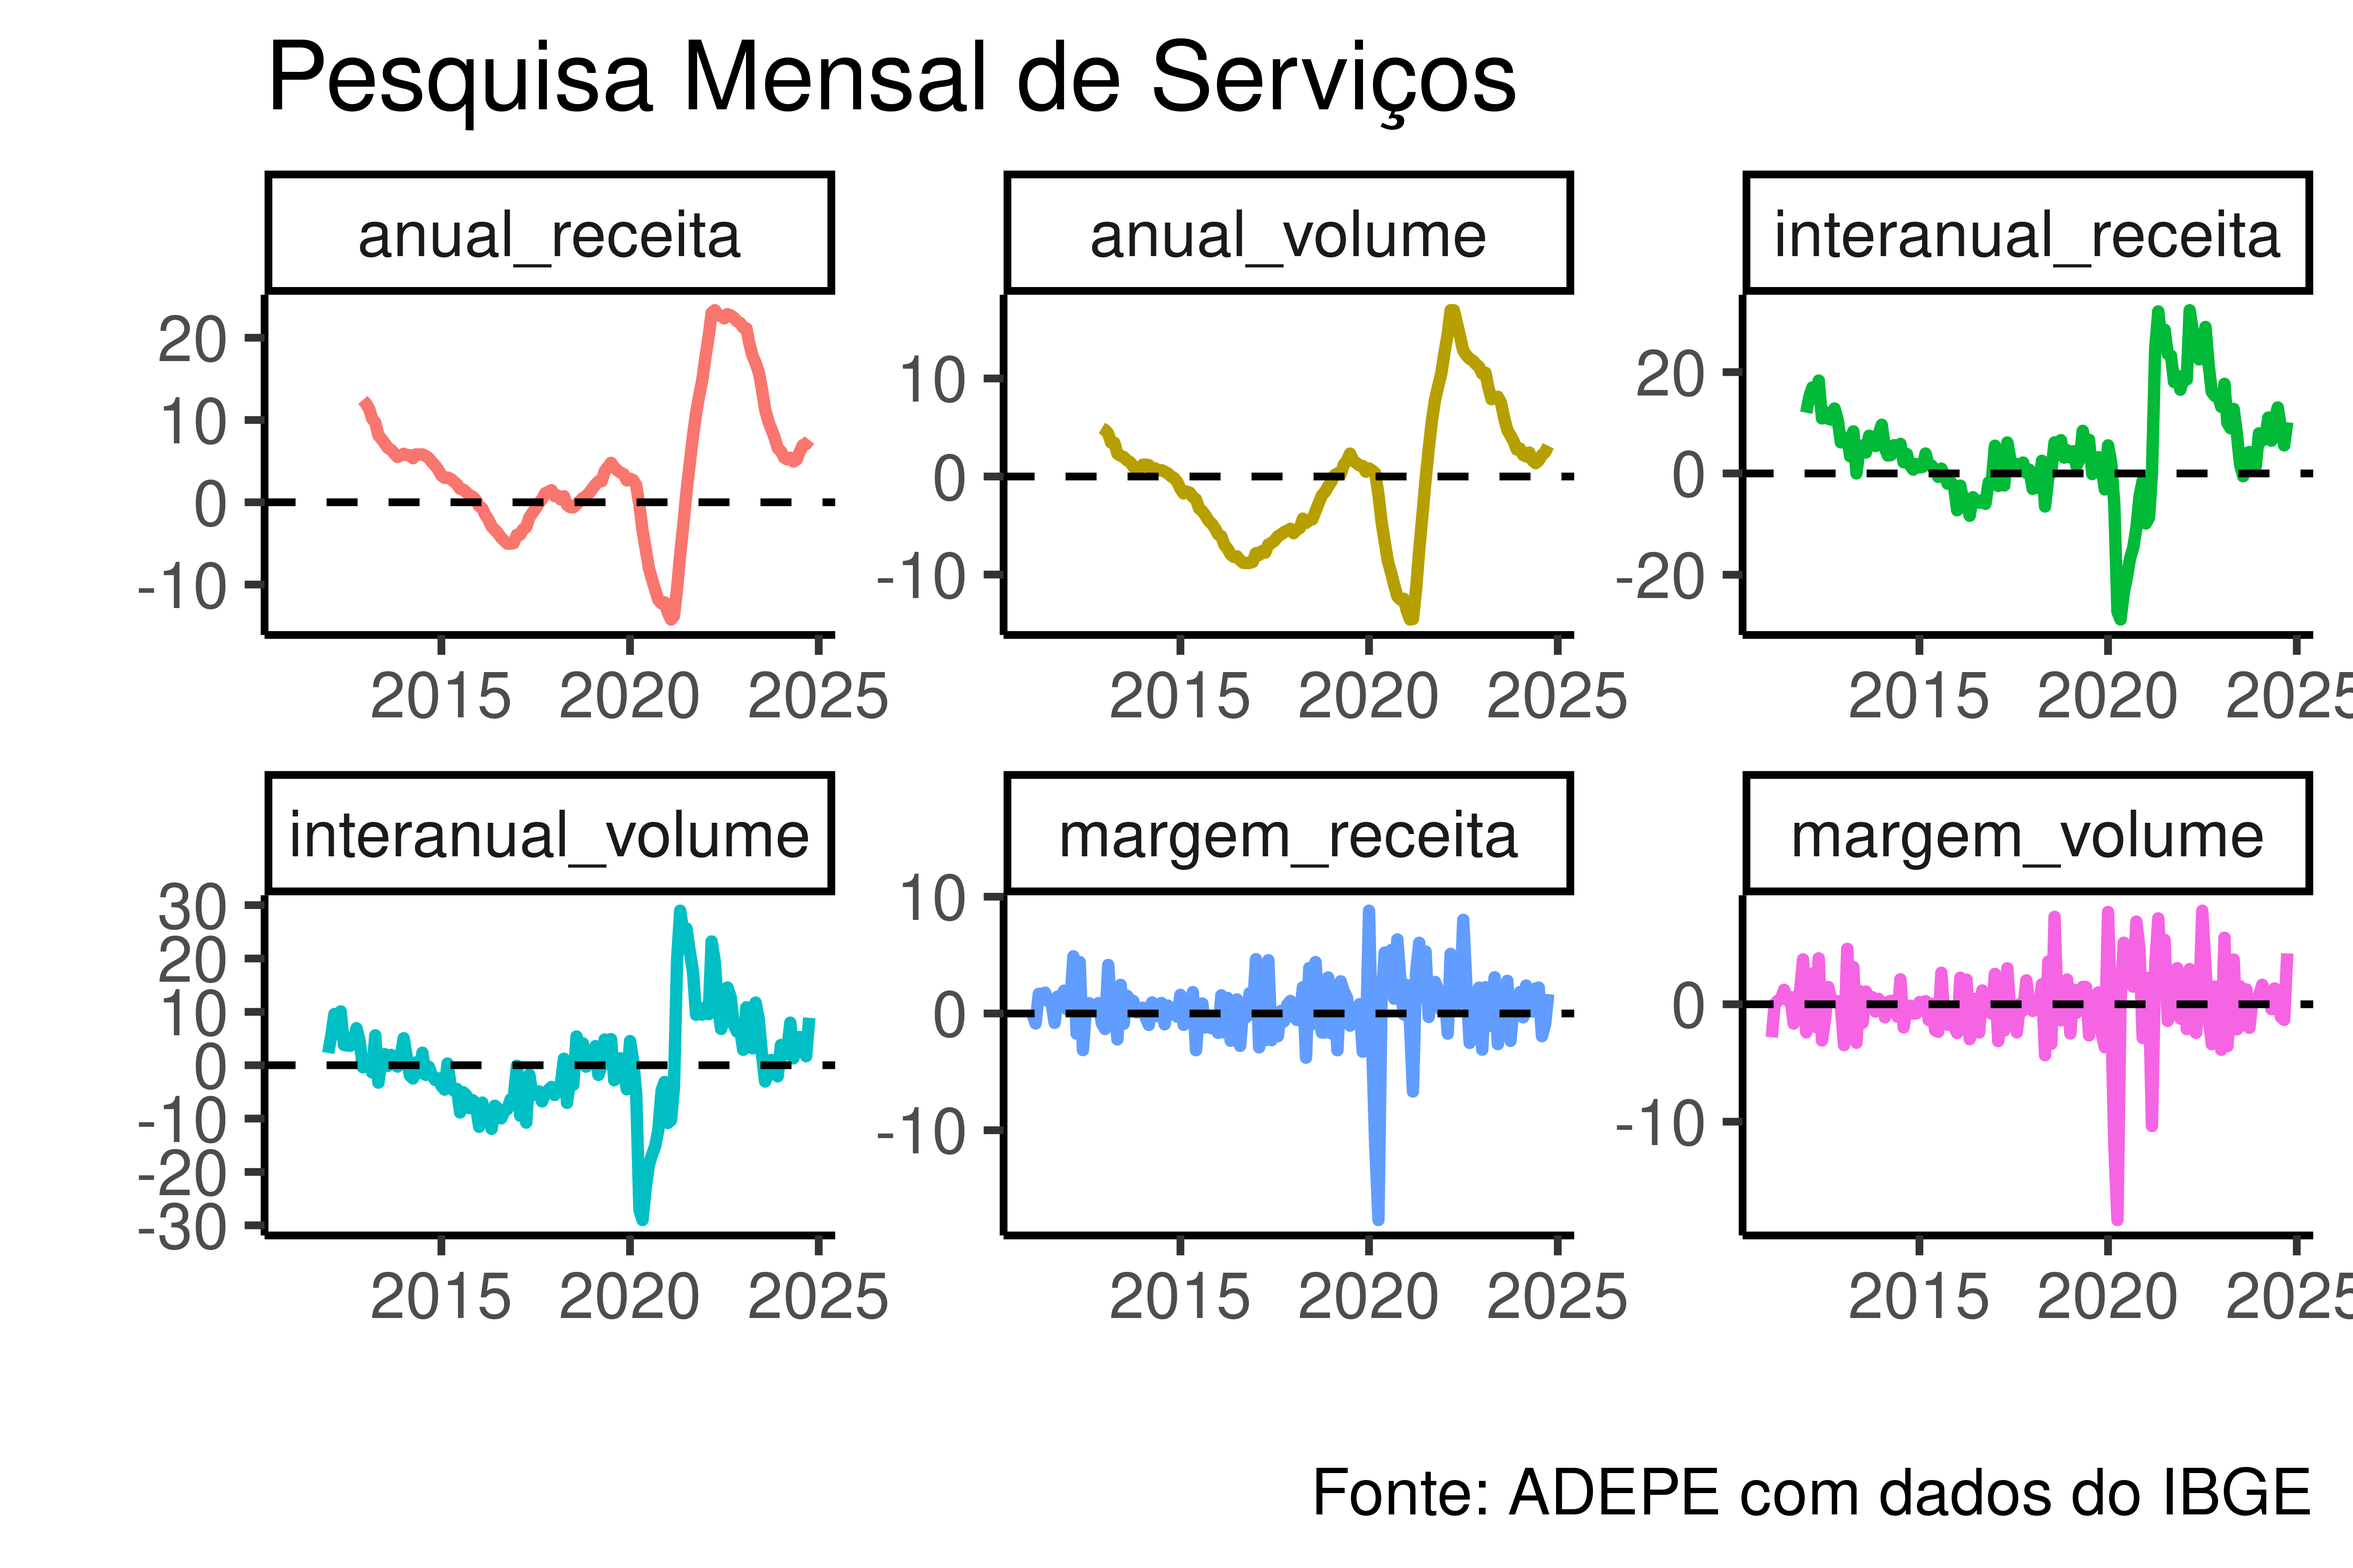
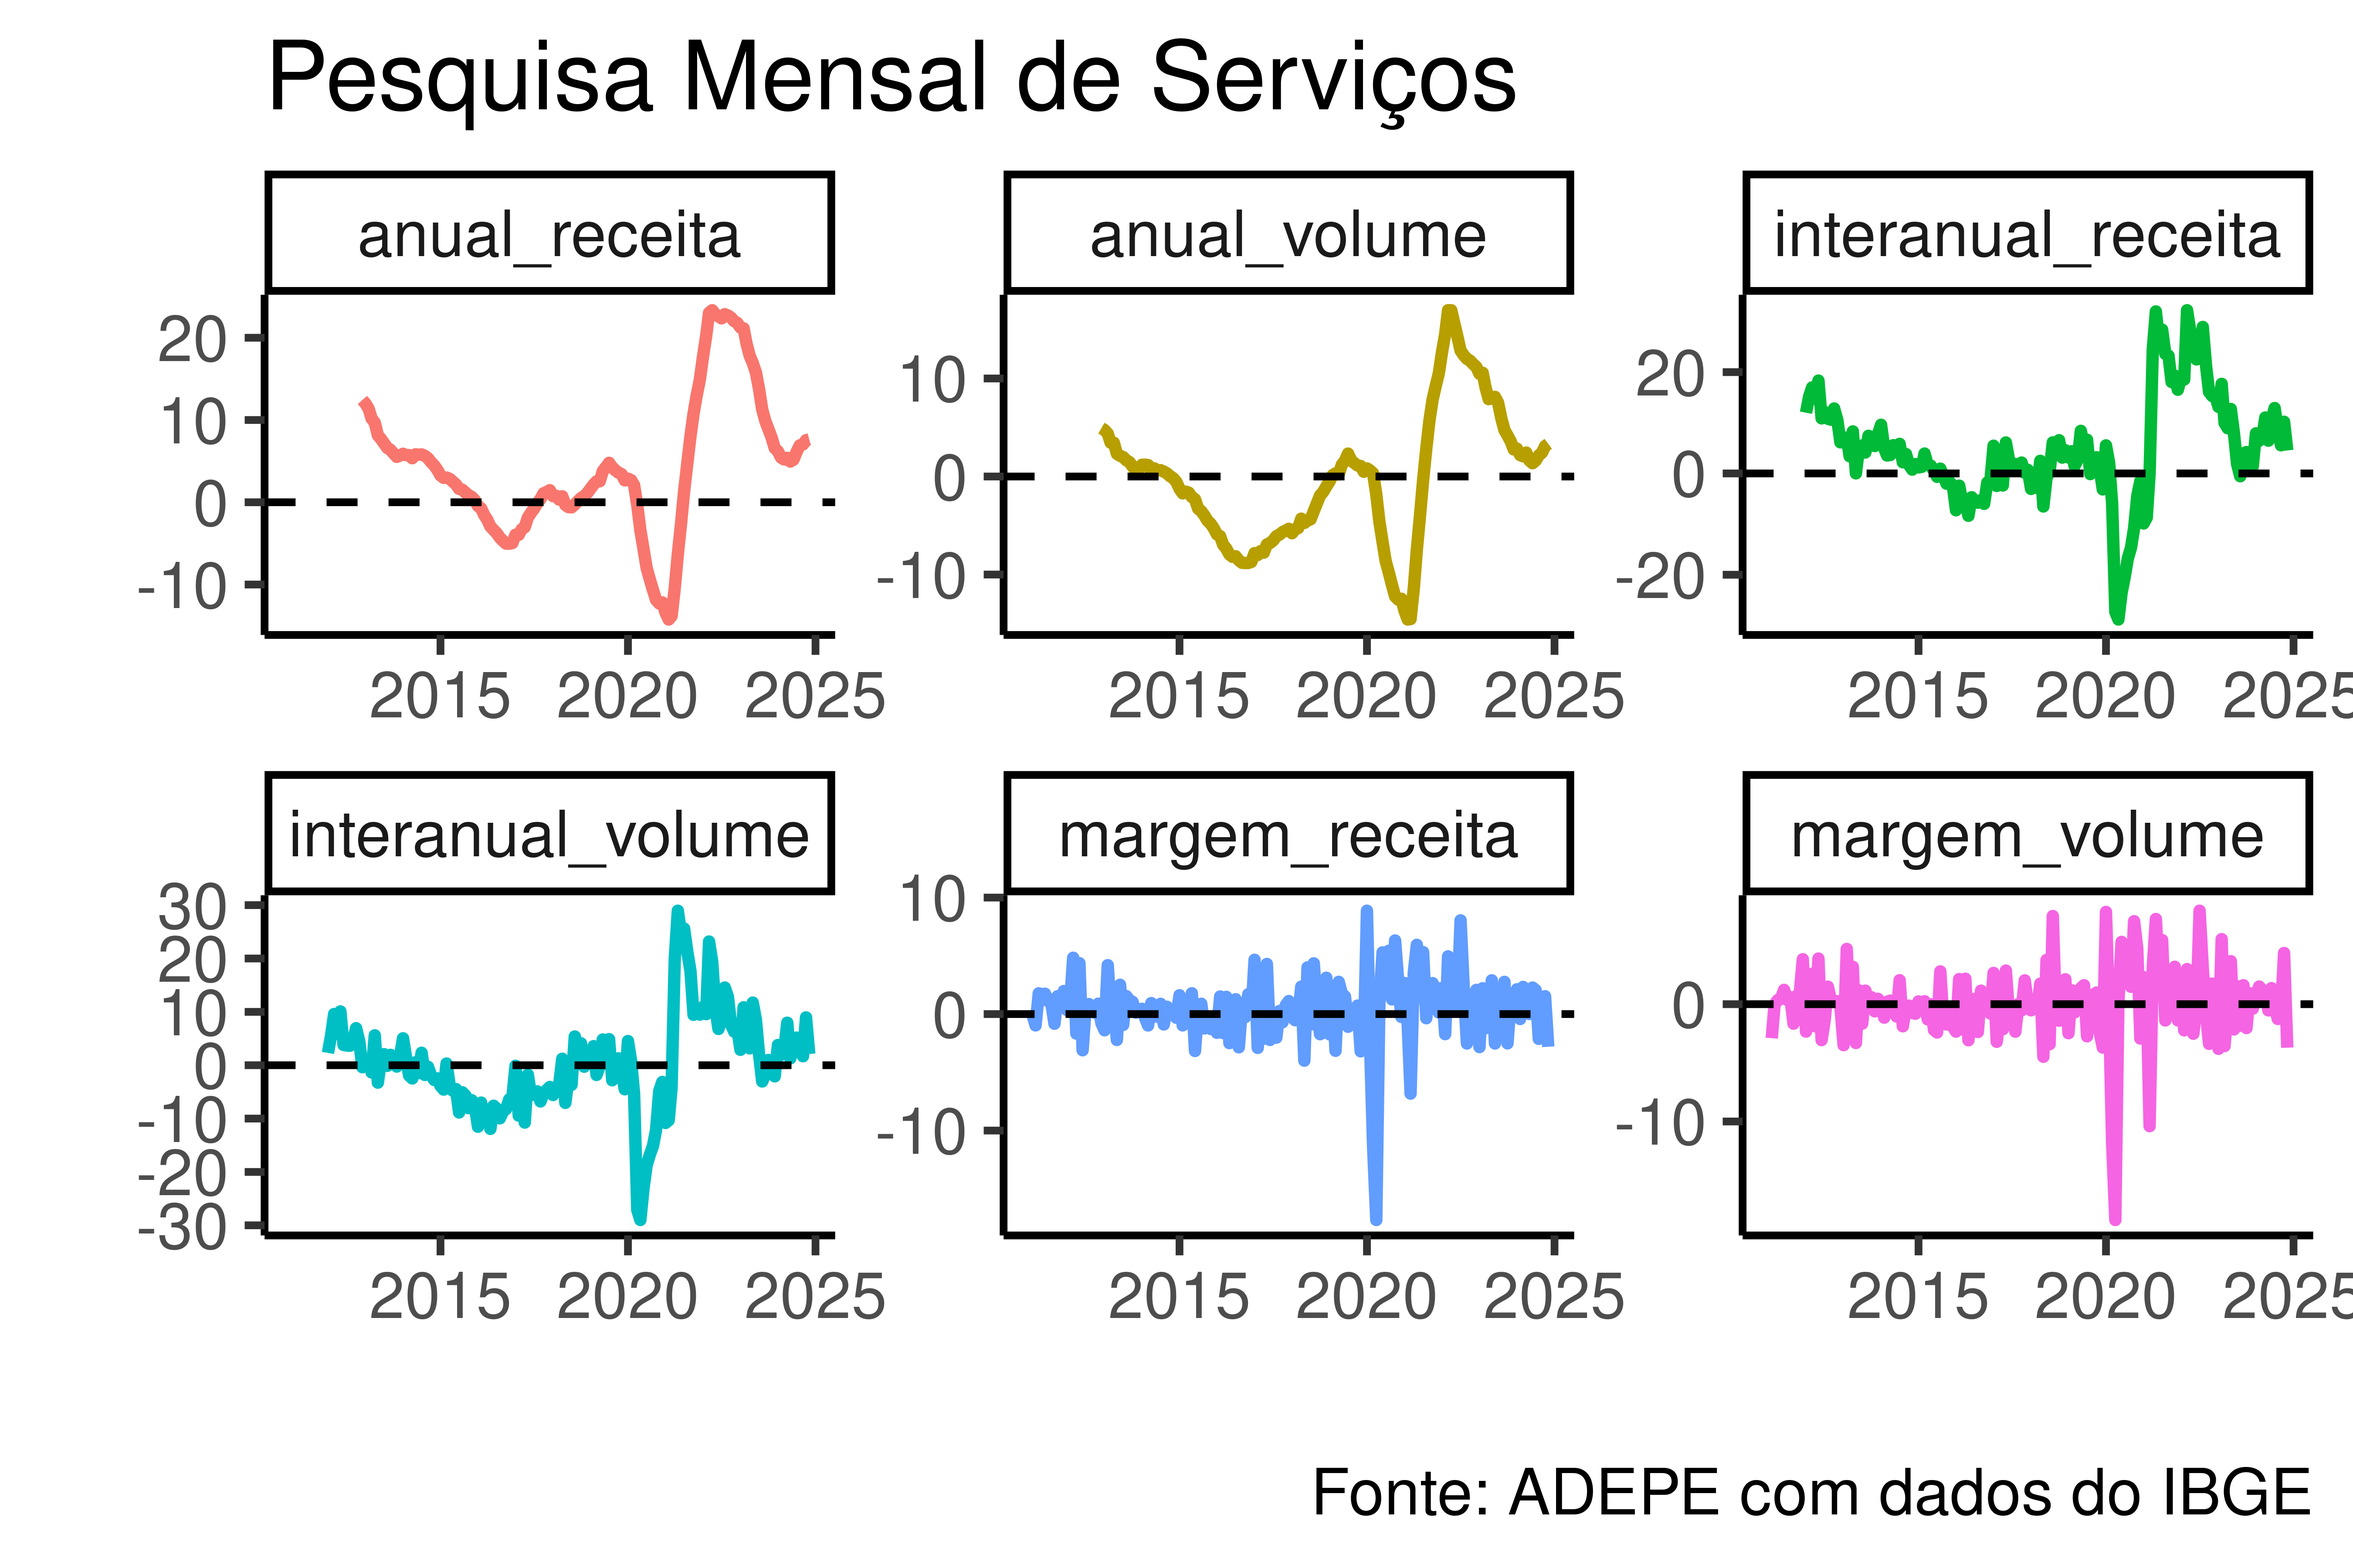
Atualização de relatório automatizada

diff --git a/relatório_nivel_atividade/pesquisas.html b/relatório_nivel_atividade/pesquisas.html
@@ -111,46 +111,46 @@ ul.task-list li input[type="checkbox"] {
 </thead>
 <tbody>
 <tr class="odd">
-<td style="text-align: center;">May 2024</td>
-<td style="text-align: center;">3.50</td>
-<td style="text-align: center;">2.69</td>
-<td style="text-align: center;">6.49</td>
-<td style="text-align: center;">2.83</td>
-</tr>
-<tr class="even">
 <td style="text-align: center;">Jun 2024</td>
 <td style="text-align: center;">-3.00</td>
 <td style="text-align: center;">9.87</td>
 <td style="text-align: center;">0.15</td>
 <td style="text-align: center;">-0.79</td>
 </tr>
-<tr class="odd">
+<tr class="even">
 <td style="text-align: center;">Jul 2024</td>
 <td style="text-align: center;">3.23</td>
 <td style="text-align: center;">10.33</td>
 <td style="text-align: center;">2.11</td>
 <td style="text-align: center;">4.13</td>
 </tr>
-<tr class="even">
+<tr class="odd">
 <td style="text-align: center;">Aug 2024</td>
 <td style="text-align: center;">3.57</td>
 <td style="text-align: center;">17.37</td>
 <td style="text-align: center;">5.53</td>
 <td style="text-align: center;">4.43</td>
 </tr>
-<tr class="odd">
+<tr class="even">
 <td style="text-align: center;">Sep 2024</td>
-<td style="text-align: center;">13.17</td>
+<td style="text-align: center;">13.32</td>
 <td style="text-align: center;">6.37</td>
-<td style="text-align: center;">7.63</td>
+<td style="text-align: center;">7.65</td>
 <td style="text-align: center;">7.81</td>
 </tr>
-<tr class="even">
+<tr class="odd">
 <td style="text-align: center;">Oct 2024</td>
-<td style="text-align: center;">-0.71</td>
-<td style="text-align: center;">8.52</td>
-<td style="text-align: center;">1.68</td>
-<td style="text-align: center;">3.96</td>
+<td style="text-align: center;">-0.66</td>
+<td style="text-align: center;">8.51</td>
+<td style="text-align: center;">1.71</td>
+<td style="text-align: center;">3.92</td>
+</tr>
+<tr class="even">
+<td style="text-align: center;">Nov 2024</td>
+<td style="text-align: center;">15.06</td>
+<td style="text-align: center;">5.23</td>
+<td style="text-align: center;">-1.25</td>
+<td style="text-align: center;">4.68</td>
 </tr>
 </tbody>
 </table>
@@ -171,46 +171,46 @@ ul.task-list li input[type="checkbox"] {
 </thead>
 <tbody>
 <tr class="odd">
-<td style="text-align: center;">May 2024</td>
-<td style="text-align: center;">-3.71</td>
-<td style="text-align: center;">-4.27</td>
-<td style="text-align: center;">9.48</td>
-<td style="text-align: center;">4.11</td>
-</tr>
-<tr class="even">
 <td style="text-align: center;">Jun 2024</td>
-<td style="text-align: center;">-4.81</td>
-<td style="text-align: center;">1.05</td>
+<td style="text-align: center;">-4.83</td>
+<td style="text-align: center;">0.97</td>
 <td style="text-align: center;">-5.74</td>
-<td style="text-align: center;">-4.99</td>
+<td style="text-align: center;">-4.71</td>
 </tr>
-<tr class="odd">
+<tr class="even">
 <td style="text-align: center;">Jul 2024</td>
-<td style="text-align: center;">4.34</td>
-<td style="text-align: center;">2.22</td>
-<td style="text-align: center;">-2.39</td>
-<td style="text-align: center;">3.09</td>
-</tr>
-<tr class="even">
-<td style="text-align: center;">Aug 2024</td>
-<td style="text-align: center;">-2.08</td>
-<td style="text-align: center;">2.52</td>
-<td style="text-align: center;">0.71</td>
-<td style="text-align: center;">-0.74</td>
+<td style="text-align: center;">4.42</td>
+<td style="text-align: center;">2.02</td>
+<td style="text-align: center;">-2.42</td>
+<td style="text-align: center;">3.03</td>
 </tr>
 <tr class="odd">
-<td style="text-align: center;">Sep 2024</td>
-<td style="text-align: center;">-2.21</td>
-<td style="text-align: center;">-5.25</td>
-<td style="text-align: center;">-1.81</td>
-<td style="text-align: center;">-0.24</td>
+<td style="text-align: center;">Aug 2024</td>
+<td style="text-align: center;">-2.01</td>
+<td style="text-align: center;">2.32</td>
+<td style="text-align: center;">0.65</td>
+<td style="text-align: center;">-0.77</td>
 </tr>
 <tr class="even">
+<td style="text-align: center;">Sep 2024</td>
+<td style="text-align: center;">-2.01</td>
+<td style="text-align: center;">-4.89</td>
+<td style="text-align: center;">-1.98</td>
+<td style="text-align: center;">-0.40</td>
+</tr>
+<tr class="odd">
 <td style="text-align: center;">Oct 2024</td>
-<td style="text-align: center;">-0.82</td>
-<td style="text-align: center;">3.51</td>
-<td style="text-align: center;">2.26</td>
-<td style="text-align: center;">0.10</td>
+<td style="text-align: center;">-0.87</td>
+<td style="text-align: center;">3.13</td>
+<td style="text-align: center;">2.32</td>
+<td style="text-align: center;">0.16</td>
+</tr>
+<tr class="even">
+<td style="text-align: center;">Nov 2024</td>
+<td style="text-align: center;">2.64</td>
+<td style="text-align: center;">-1.10</td>
+<td style="text-align: center;">-0.61</td>
+<td style="text-align: center;">-0.05</td>
 </tr>
 </tbody>
 </table>
@@ -274,39 +274,39 @@ Nota
 </thead>
 <tbody>
 <tr class="odd">
-<td style="text-align: left;">2024-05-01</td>
-<td style="text-align: right;">-1.06</td>
-<td style="text-align: right;">5.06</td>
-<td style="text-align: right;">5.87</td>
-</tr>
-<tr class="even">
 <td style="text-align: left;">2024-06-01</td>
-<td style="text-align: right;">2.52</td>
-<td style="text-align: right;">6.84</td>
-<td style="text-align: right;">5.97</td>
+<td style="text-align: right;">2.54</td>
+<td style="text-align: right;">6.88</td>
+<td style="text-align: right;">6.00</td>
 </tr>
-<tr class="odd">
+<tr class="even">
 <td style="text-align: left;">2024-07-01</td>
-<td style="text-align: right;">1.19</td>
-<td style="text-align: right;">10.48</td>
-<td style="text-align: right;">6.44</td>
-</tr>
-<tr class="even">
-<td style="text-align: left;">2024-08-01</td>
-<td style="text-align: right;">0.08</td>
-<td style="text-align: right;">7.60</td>
-<td style="text-align: right;">6.72</td>
+<td style="text-align: right;">1.18</td>
+<td style="text-align: right;">10.52</td>
+<td style="text-align: right;">6.47</td>
 </tr>
 <tr class="odd">
-<td style="text-align: left;">2024-09-01</td>
-<td style="text-align: right;">0.96</td>
-<td style="text-align: right;">8.22</td>
-<td style="text-align: right;">7.03</td>
+<td style="text-align: left;">2024-08-01</td>
+<td style="text-align: right;">0.09</td>
+<td style="text-align: right;">7.66</td>
+<td style="text-align: right;">6.76</td>
 </tr>
 <tr class="even">
+<td style="text-align: left;">2024-09-01</td>
+<td style="text-align: right;">0.94</td>
+<td style="text-align: right;">8.28</td>
+<td style="text-align: right;">7.07</td>
+</tr>
+<tr class="odd">
 <td style="text-align: left;">2024-10-01</td>
-<td style="text-align: right;">0.76</td>
-<td style="text-align: right;">9.57</td>
+<td style="text-align: right;">0.74</td>
+<td style="text-align: right;">9.68</td>
+<td style="text-align: right;">7.43</td>
+</tr>
+<tr class="even">
+<td style="text-align: left;">2024-11-01</td>
+<td style="text-align: right;">0.11</td>
+<td style="text-align: right;">6.59</td>
 <td style="text-align: right;">7.38</td>
 </tr>
 </tbody>
@@ -329,40 +329,40 @@ Nota
 </thead>
 <tbody>
 <tr class="odd">
-<td style="text-align: left;">2024-05-01</td>
-<td style="text-align: right;">-0.26</td>
-<td style="text-align: right;">0.81</td>
-<td style="text-align: right;">2.12</td>
-</tr>
-<tr class="even">
 <td style="text-align: left;">2024-06-01</td>
-<td style="text-align: right;">1.40</td>
-<td style="text-align: right;">1.79</td>
-<td style="text-align: right;">1.92</td>
+<td style="text-align: right;">1.38</td>
+<td style="text-align: right;">1.82</td>
+<td style="text-align: right;">1.94</td>
 </tr>
-<tr class="odd">
+<tr class="even">
 <td style="text-align: left;">2024-07-01</td>
-<td style="text-align: right;">0.34</td>
-<td style="text-align: right;">4.02</td>
-<td style="text-align: right;">1.94</td>
-</tr>
-<tr class="even">
-<td style="text-align: left;">2024-08-01</td>
-<td style="text-align: right;">-0.29</td>
-<td style="text-align: right;">1.81</td>
-<td style="text-align: right;">1.94</td>
+<td style="text-align: right;">0.31</td>
+<td style="text-align: right;">4.06</td>
+<td style="text-align: right;">1.97</td>
 </tr>
 <tr class="odd">
-<td style="text-align: left;">2024-09-01</td>
-<td style="text-align: right;">0.96</td>
-<td style="text-align: right;">3.81</td>
-<td style="text-align: right;">2.25</td>
+<td style="text-align: left;">2024-08-01</td>
+<td style="text-align: right;">-0.27</td>
+<td style="text-align: right;">1.87</td>
+<td style="text-align: right;">1.98</td>
 </tr>
 <tr class="even">
+<td style="text-align: left;">2024-09-01</td>
+<td style="text-align: right;">0.92</td>
+<td style="text-align: right;">3.88</td>
+<td style="text-align: right;">2.29</td>
+</tr>
+<tr class="odd">
 <td style="text-align: left;">2024-10-01</td>
-<td style="text-align: right;">1.14</td>
-<td style="text-align: right;">6.33</td>
-<td style="text-align: right;">2.70</td>
+<td style="text-align: right;">1.41</td>
+<td style="text-align: right;">6.44</td>
+<td style="text-align: right;">2.75</td>
+</tr>
+<tr class="even">
+<td style="text-align: left;">2024-11-01</td>
+<td style="text-align: right;">-0.92</td>
+<td style="text-align: right;">2.94</td>
+<td style="text-align: right;">2.85</td>
 </tr>
 </tbody>
 </table>
